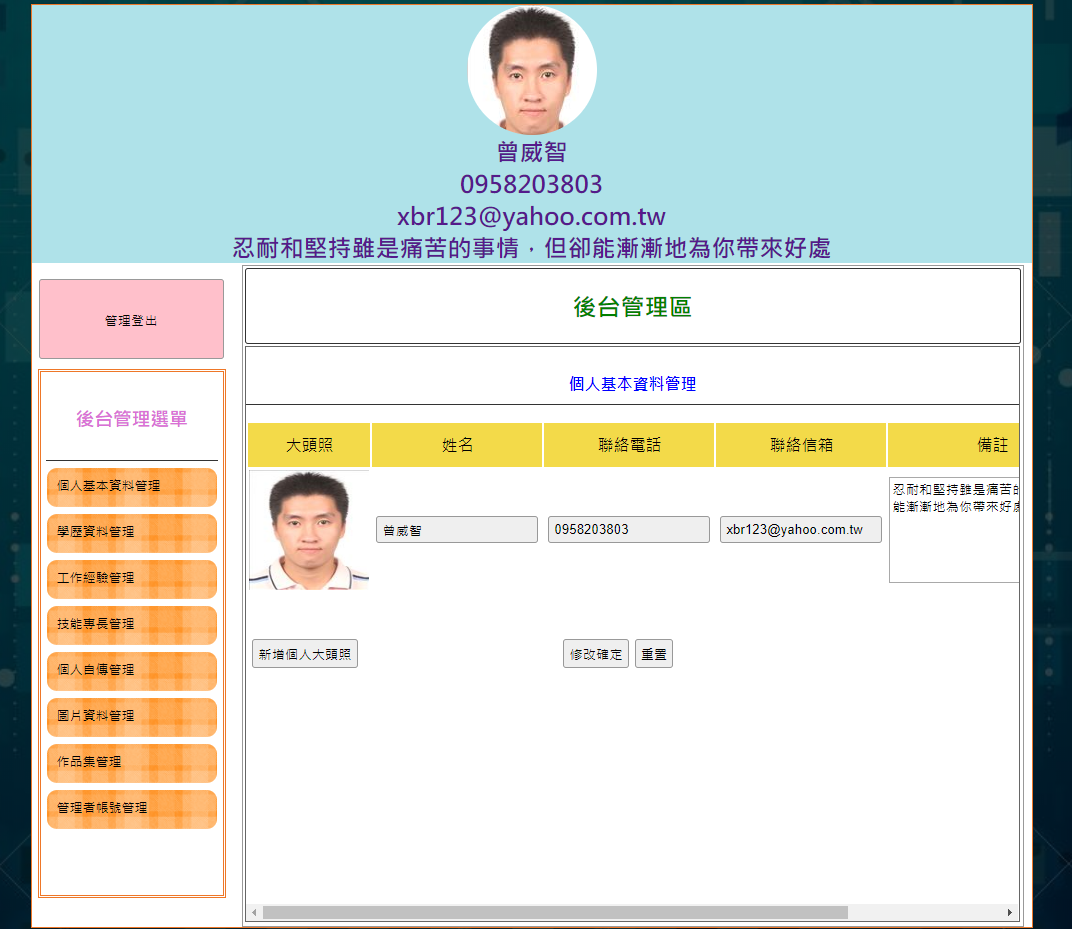
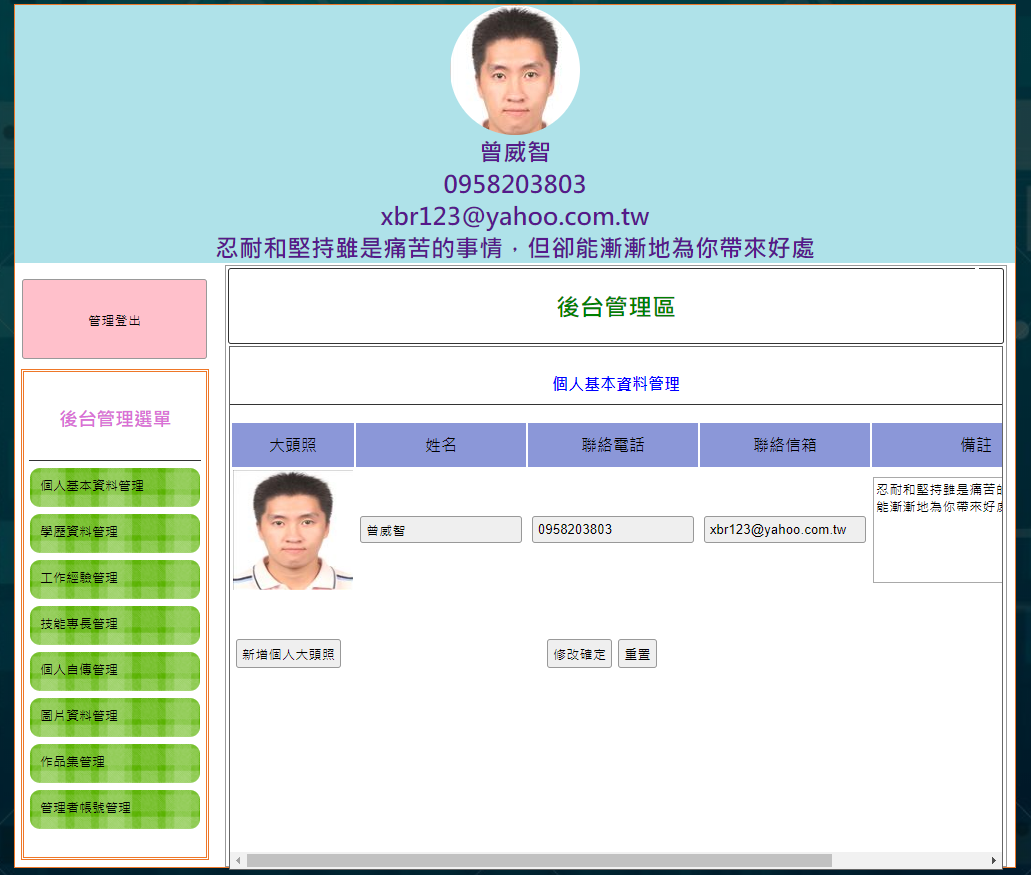
後台版面調整

Changed region(s): [[0.0, 0.0, 1.0, 1.0], [0.5276, 0.6789, 0.6518, 0.7714]]

diff --git a/css/css.css b/css/css.css
@@ -65,7 +65,7 @@ body {
 .mainmu{
 	position:relative;
 	border-radius:10px;
-	background:url(../icon/menu.fw.png) center no-repeat;
+	background:url(../icon/menu3.fw.png) center no-repeat;
 	background-size:cover;
 	line-height:30px;
 	padding:2px 10px 2px 10px;
@@ -73,7 +73,7 @@ body {
 	height: 35px;
 }
 .mainmu:hover{
-	background:url(../icon/menu2.fw.png) center no-repeat;
+	background:url(../icon/menu.fw.png) center no-repeat;
 	background-size:cover;
 }
 .mainmu2{
@@ -97,7 +97,7 @@ body {
 }
 #menuput{
 	width:82%;
-	height:95%;
+	height:88%;
 	position:relative;
 	padding:5px;
 	display:block;
@@ -130,7 +130,7 @@ input:focus,button:focus{
 	box-shadow:#09C 0px 0px 3px .3px;
 }
 .yel td{
-	background:#F3DA49;
+	background:rgb(139, 151, 216);
 	text-align:center;
 }
 .trce td{

diff --git a/admin.php b/admin.php
@@ -72,7 +72,7 @@ include_once "base.php";
         
       </div>
       <div class="di"
-        style="height:660px; border:#999 1px solid; width:78%; margin:2px 0px 0px 0px; float:left; position:relative;">
+        style="height:600px; border:#999 1px solid; width:78%; margin:2px 0px 0px 0px; float:left; position:relative;">
         <!--正中央-->
         <table width="100%">
           <tbody>

diff --git a/view/skill.php b/view/skill.php
@@ -1,4 +1,4 @@
-<h3 class="cent">新增技能專長</h3>
+<h3 class="cent">新增技能專長資料</h3>
 <hr>
 <form action="./api/add.php" method="post" enctype="multipart/form-data" style="width:60%;margin:auto">
 <table>

diff --git a/view/personal.php b/view/personal.php
@@ -1,4 +1,4 @@
-<h3 class="cent">新增大頭照</h3>
+<h3 class="cent">新增個人基本資料</h3>
 <hr>
 <form action="./api/add.php" method="post" enctype="multipart/form-data" style="width:60%;margin:auto">
 <table>

diff --git a/view/portfolio.php b/view/portfolio.php
@@ -1,4 +1,4 @@
-<h3 class="cent">新增作品圖片</h3>
+<h3 class="cent">新增作品資料</h3>
 <hr>
 <form action="./api/add.php" method="post" enctype="multipart/form-data" style="width:60%;margin:auto">
 <table>
